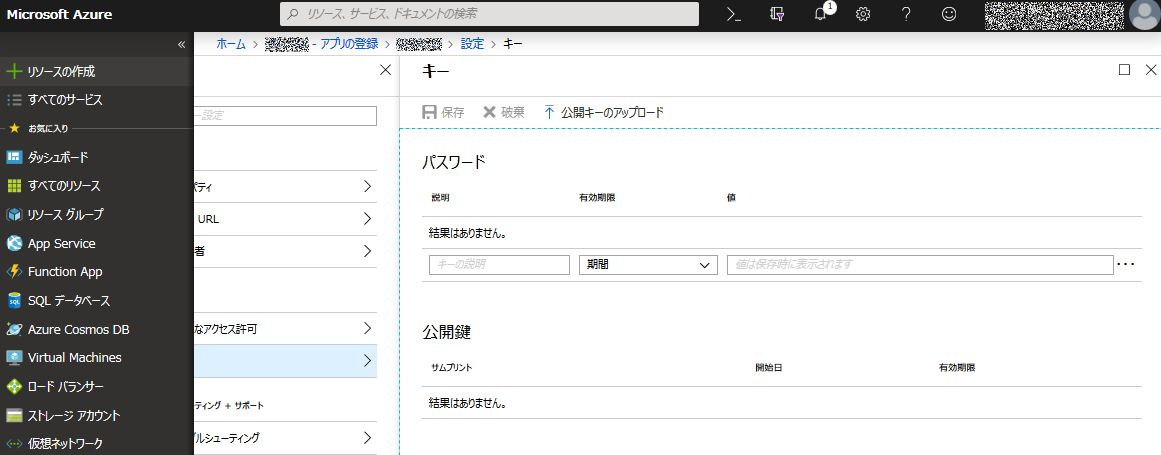
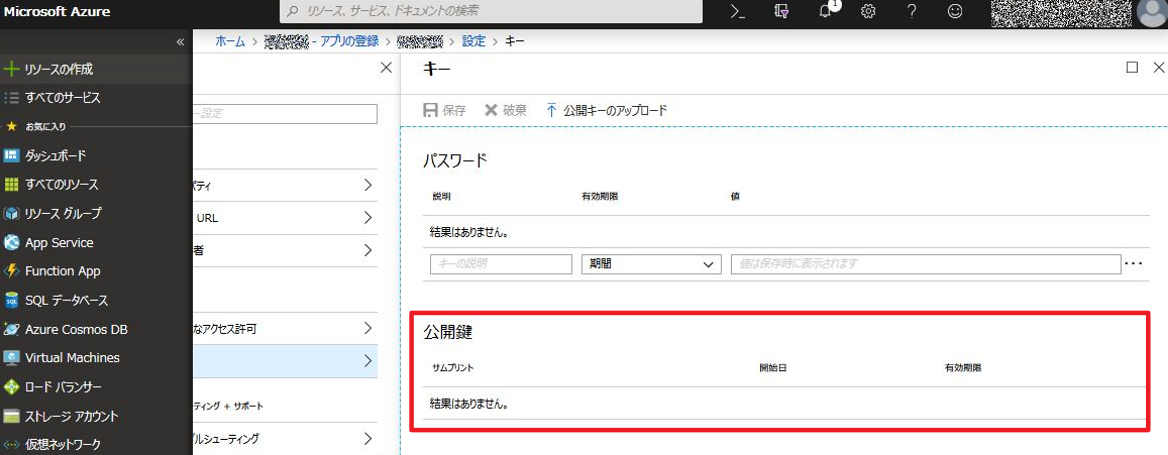
Change so that it can also get with the key

diff --git a/README.md b/README.md
@@ -17,21 +17,29 @@ PowerShell スクリプトにて、ユーザー毎に最終サインイン日時
 - サインイン ログの保存期間により、30 日以上前のサインイン日時は確認できません。
 - サインインのログから一覧を取得しているため、厳密な ”最終アクセス日時” とは異なります。
 
-## 最終サインイン日時取得手順
+## 最終サインイン日時の取得手順
 
-### 1. 認証に使用する証明書の作成
+本スクリプトは、キーまたは証明書を利用して最終サインイン日時を取得します。
+キーは事前準備が容易であるため、一時的な検証に向いています。
+証明書の場合、証明書を作成する事前準備が必要となりますがキーよりも安全であり推奨される方法です。
+
+
+### 証明書を利用する場合は予め以下の準備が必要です。
+- 認証に使用する証明書の作成
+
 CreateAndExportCert.ps1 を実行します。
 
-最終サインイン日時の取得にトークン取得に証明書を用います。これは、これまでの平文のキーを用いる方法よりもセキュリティ的に強固であり、推奨している方法です。CreateAndExportCert.ps1 は自己署名証明書を生成し、ユーザーの証明書ストア (個人) に格納します。さらに、公開鍵を含む証明書 (SelfSignedCert.cer ファイル) をカレント  ディレクトリに出力します。
+CreateAndExportCert.ps1 は自己署名証明書を生成し、ユーザーの証明書ストア (個人) に格納します。さらに、公開鍵を含む証明書 (SelfSignedCert.cer ファイル) をカレント  ディレクトリに出力します。
 
-### 2. 処理に必要なライブラリを nuget で取得するスクリプトの準備と実行
+- 処理に必要なライブラリを nuget で取得するスクリプトの準備と実行
+
 GetModuleByNuget.ps1 を C:\SignInReport フォルダー配下に保存し実行します。
 
 証明書を用いたトークン取得処理に必要なライブラリを nuget で取得します。
 GetModuleByNuget.ps1 を実行すると、C:\SignInReport 配下に Tools というフォルダーが作成され Microsoft.IdentityModel.Clients.ActiveDirectory.dll などのファイルが保存されます。
 
  
-### 3. アプリケーションの登録
+### 1.アプリケーションの登録
 Azure AD 上にアプリケーションを準備します。
 
 以下のドキュメントに記載された手順に従って、アプリケーションを登録し、"構成設定を収集する" に従ってドメイン名とクライアント ID を取得します。
@@ -40,21 +48,37 @@ Azure AD Reporting API にアクセスするための前提条件
 https://docs.microsoft.com/ja-jp/azure/active-directory/active-directory-reporting-api-prerequisites-azure-portal
 
 
-今回はアプリケーションのクライアント シークレットとして証明書を利用します。そのため、 上記の公開情報では "アプリケーションのクライアント シークレットを取得する" の手順において 5 でキーを生成していますが、その代わりに [公開キーのアップロード] を実行します。ここで、 "1. 認証に使用する証明書の作成" で作成した、 SelfSignedCert.cer を指定してアップロード後、 [保存] をクリックします。
+キーを利用する場合：上記の公開情報の "アプリケーションのクライアント シークレットを取得する" の、5 の手順においてキーを作成します。
+
+![キーの作成画面](img/createkey.png)
+
+証明書を利用する場合：
+上記の公開情報の "アプリケーションのクライアント シークレットを取得する" の、5 の手順においてキーを作成する代わりに、[公開キーのアップロード] を実行します。ここで、 "1. 認証に使用する証明書の作成" で作成した、 SelfSignedCert.cer を指定してアップロード後、 [保存] をクリックします。
 
  ![クライアント シークレットの証明書アップロード画面](img/certupload.png)
 
-### 4. スクリプトの実行
+### 2. スクリプトの実行
 
 最後に、GetLastLogin.ps1 を C:\SignInReport 配下に保存し、環境に合わせて以下部分の内容を設定します。
 
 ```powershell
 $tenantId = "yourtenant.onmicrosoft.com" # or GUID "01234567-89AB-CDEF-0123-456789ABCDEF"
 $clientID = "XXXXXXXX-XXXX-XXXX-XXXX-XXXXXXXXXXXXX"
-$thumprint = "XXXXXXXXXXXXXXXXXXXXXXXXXXXXXXXXXXXXXXXX"
 $outfile = "C:\Users\xxxxx\Desktop\lastLogin.csv"
 ```
 
+引数にて、キーまたは証明書を選択します。
+
+キーの場合：
+```powershell
+.\GetLastLogin.ps1 -authMethod Key <手順1で作成したキーの値>
+```
+証明書の場合：
+```powershell
+.\GetLastLogin.ps1 -authMethod Cert <手順1でアップロードした証明書の拇印の値>
+```
+
+### 実行結果
 GetLastLogin.ps1 を実行すると、ユーザー毎に最終サインイン日時が csv ファイルとして取得できます。
 
 
